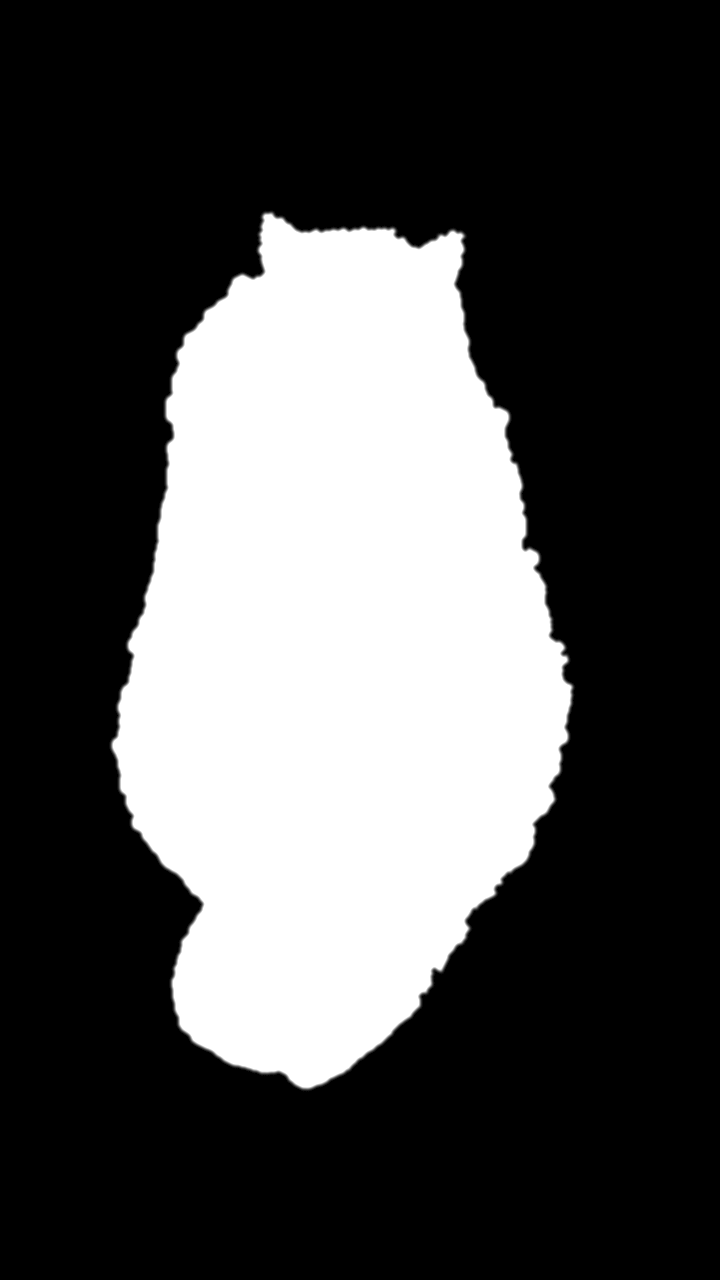
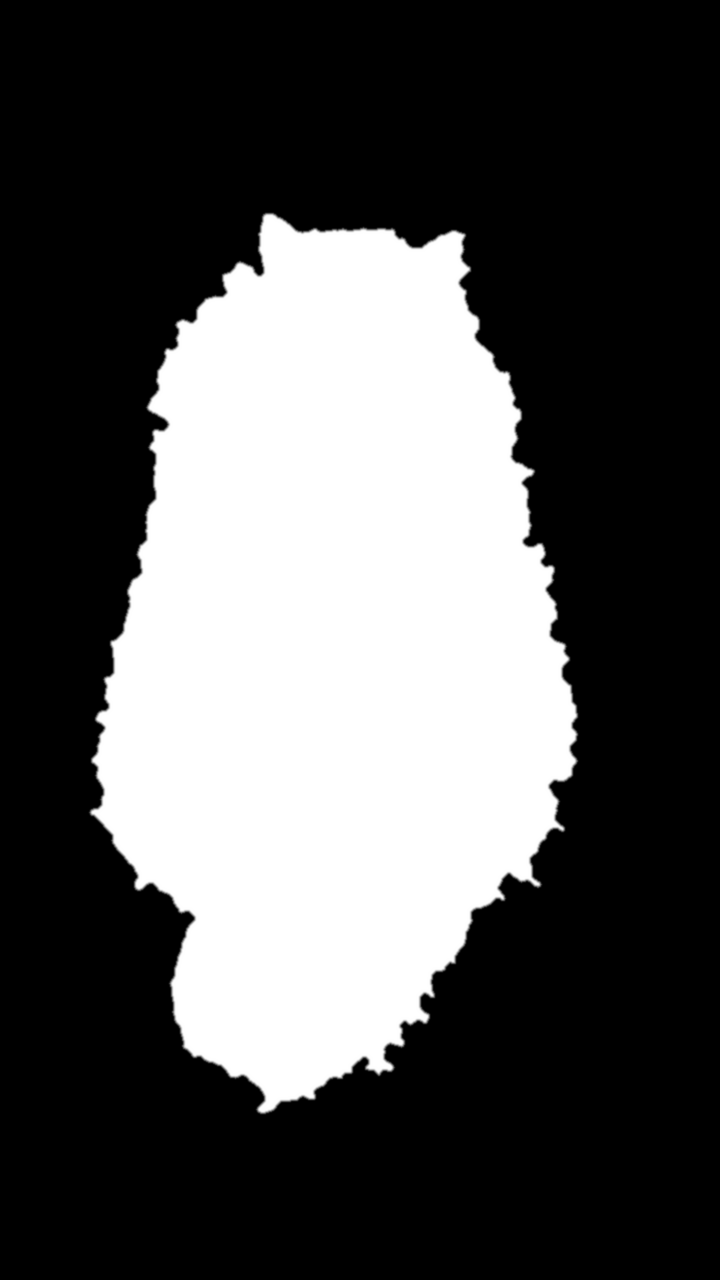
Cut the pale cushion fringe out of every coat matte
The calico outline sat on the plate's own lighter fabric and the renderer then hardened that edge. Masks are smoothed, eroded, and feathered, the rim is relit to the shared cushion, and the shader uses that feather instead of a second hard step.

diff --git a/tools/make_plate_masks.py b/tools/make_plate_masks.py
@@ -6,11 +6,10 @@ overhead pose) and run:
 
     python3 tools/make_plate_masks.py
 
-The script writes mask-<name>.png, a decontaminated plate-<name>.jpg, and a
-circular swatch-<name>.png. Calico is lit differently from the empty cushion,
-so it is segmented with a low-frequency lighting correction. Every matte is
-then eroded, feathered, and unmixed so the photo's own cushion cannot show
-as a pale cutout against cushion.jpg.
+The script writes mask-<name>.png, a rim-lit plate-<name>.jpg, and a circular
+swatch-<name>.png. The matte is a smoothed, eroded silhouette with a short
+feather. Edge pixels are relit to the shared cushion so a coat's own brighter
+fabric cannot show as a pale jagged outline.
 """
 
 import argparse
@@ -58,8 +57,8 @@ def segment_diff(cat: np.ndarray, empty: np.ndarray, core_t: float, fringe_t: fl
     distance = cv2.distanceTransform((1 - core).astype(np.uint8), cv2.DIST_L2, 3)
     fringe = ((distance > 0) & (distance <= fringe_px) & (diff > fringe_t)).astype(np.uint8)
     mask = largest(np.clip(core + fringe, 0, 1).astype(np.uint8))
-    mask = fill_small_holes(mask, 1200)
-    mask = cv2.erode(mask, small, iterations=1)
+    # Pale bellies fail the threshold but are enclosed by fur. The cushion itself touches the frame, so it is not filled.
+    mask = fill_small_holes(mask, 10**9)
     return largest(mask)
 
 
@@ -71,40 +70,60 @@ def lighting_diff(cat: np.ndarray, empty: np.ndarray, outside: np.ndarray) -> np
     weight = cv2.resize(outside.astype(np.float32), small, interpolation=cv2.INTER_AREA)
     gain = np.ones_like(cat_f)
     for channel in range(3):
-        num = cv2.GaussianBlur(cv2.resize(cat_f[:, :, channel] * outside, small, interpolation=cv2.INTER_AREA), (0, 0), 10)
-        den = cv2.GaussianBlur(cv2.resize(empty_f[:, :, channel] * outside, small, interpolation=cv2.INTER_AREA), (0, 0), 10)
-        blurred = cv2.GaussianBlur(weight, (0, 0), 10) + 1e-3
-        fitted = np.clip((num / blurred) / (den / blurred + 1e-3), 0.45, 2.4)
+        num = cv2.GaussianBlur(cv2.resize(cat_f[:, :, channel] * outside, small, interpolation=cv2.INTER_AREA), (0, 0), 8)
+        den = cv2.GaussianBlur(cv2.resize(empty_f[:, :, channel] * outside, small, interpolation=cv2.INTER_AREA), (0, 0), 8)
+        blurred = cv2.GaussianBlur(weight, (0, 0), 8) + 1e-3
+        fitted = np.clip((num / blurred) / (den / blurred + 1e-3), 0.5, 2.2)
         gain[:, :, channel] = cv2.resize(fitted, (width, height), interpolation=cv2.INTER_LINEAR)
     corrected = np.clip(empty_f * gain, 0, 255)
     return np.abs(cat_f - corrected).max(axis=2)
 
 
-def tighten_and_clean(plate: np.ndarray, cushion: np.ndarray, mask: np.ndarray) -> tuple[np.ndarray, np.ndarray]:
-    """Erode, feather, and unmix the plate's own cushion out of the fur edge.
+def segment_calico(cat: np.ndarray, empty: np.ndarray, black_mask: np.ndarray) -> np.ndarray:
+    """Calico is lit brighter than cushion.jpg. Fit that light, then stay inside the shared pose."""
+    outside = cv2.dilate(black_mask, cv2.getStructuringElement(cv2.MORPH_ELLIPSE, (31, 31))) == 0
+    diff = cv2.GaussianBlur(lighting_diff(cat, empty, outside.astype(np.float32)), (0, 0), 0.8)
+    raw = (diff > 40).astype(np.uint8)
+    small = cv2.getStructuringElement(cv2.MORPH_ELLIPSE, (3, 3))
+    raw = cv2.morphologyEx(raw, cv2.MORPH_OPEN, small, iterations=1)
+    raw = cv2.morphologyEx(raw, cv2.MORPH_CLOSE, cv2.getStructuringElement(cv2.MORPH_ELLIPSE, (5, 5)), iterations=2)
+    raw = largest(fill_small_holes(raw, 10**9))
+    # One pixel of slack around the black pose. A wide dilation is what left the pale cushion ring.
+    allowed = cv2.dilate(black_mask, cv2.getStructuringElement(cv2.MORPH_ELLIPSE, (5, 5)), iterations=1)
+    return largest(cv2.bitwise_and(raw, allowed))
 
-    A hard pale silhouette is the photo's brighter cushion left inside the matte.
-    The rim is solved back to fur colour against that local background, then
-    stored over the shared cushion so a soft edge cannot reveal a second fabric.
-    """
-    binary = (mask > 0).astype(np.uint8)
+
+def refine(binary: np.ndarray, erode_px: int = 3, feather: float = 2.6) -> tuple[np.ndarray, np.ndarray]:
+    """Round the contour, drop the cushion fringe, and feather inside the fur."""
+    soft = cv2.GaussianBlur(binary.astype(np.float32), (0, 0), 2.2)
+    smooth = largest((soft > 0.55).astype(np.uint8))
+    smooth = fill_small_holes(smooth, 2000)
     kernel = cv2.getStructuringElement(cv2.MORPH_ELLIPSE, (3, 3))
-    core = largest(cv2.erode(binary, kernel, iterations=2))
-    if int(core.sum()) < 1000:
-        core = binary
-    soft = cv2.GaussianBlur(core.astype(np.float32), (0, 0), 1.6)
-    outside = cv2.distanceTransform((1 - core).astype(np.uint8), cv2.DIST_L2, 3)
-    soft = np.where(outside > 3.0, 0.0, soft)
-    soft = np.clip(soft * 1.25, 0.0, 1.0)
-    background = cv2.inpaint(plate, (core * 255).astype(np.uint8), 8, cv2.INPAINT_NS)
-    alpha = soft[..., None]
-    fur = (plate.astype(np.float32) - background.astype(np.float32) * (1.0 - alpha)) / np.maximum(alpha, 0.2)
-    fur = np.clip(fur, 0, 255)
-    depth = cv2.distanceTransform(core, cv2.DIST_L2, 3)
-    deep = np.clip((depth - 4.0) / 3.0, 0.0, 1.0)[..., None]
-    fur = fur * (1.0 - deep) + plate.astype(np.float32) * deep
-    cleaned = np.where(alpha > 0.02, fur, cushion.astype(np.float32))
-    return cleaned.astype(np.uint8), (soft * 255.0).astype(np.uint8)
+    tight = largest(cv2.erode(smooth, kernel, iterations=erode_px))
+    if int(tight.sum()) < 1000:
+        tight = smooth
+    distance = cv2.distanceTransform(tight, cv2.DIST_L2, 5)
+    alpha = np.clip(distance / feather, 0.0, 1.0)
+    # A sub-pixel blur removes the stair-step the distance field inherits from the grid.
+    alpha = cv2.GaussianBlur(alpha, (0, 0), 0.7)
+    alpha = np.where(cv2.distanceTransform((1 - tight).astype(np.uint8), cv2.DIST_L2, 3) > feather + 1.5, 0.0, alpha)
+    return tight, np.clip(alpha, 0.0, 1.0).astype(np.float32)
+
+
+def match_edge_light(plate: np.ndarray, cushion: np.ndarray, tight: np.ndarray, alpha: np.ndarray) -> np.ndarray:
+    """Relight the outer fur to the shared cushion, and replace the plate's own fabric outside the matte."""
+    distance = cv2.distanceTransform(tight, cv2.DIST_L2, 5)
+    background = cv2.inpaint(plate, (tight * 255).astype(np.uint8), 8, cv2.INPAINT_TELEA).astype(np.float32)
+    destination = cv2.GaussianBlur(cushion.astype(np.float32), (0, 0), 14)
+    source = cv2.GaussianBlur(background, (0, 0), 14) + 1.0
+    gain = np.clip(destination / source, 0.7, 1.15)
+    weight = np.clip((7.0 - distance) / 7.0, 0.0, 1.0) * (tight == 1)
+    fur = plate.astype(np.float32)
+    corrected = np.clip(fur * gain, 0, 255)
+    lit = fur * (1.0 - weight[..., None]) + corrected * weight[..., None]
+    # Anything the matte does not cover is the shared cushion, so a soft sample cannot reveal the plate fabric.
+    lit = np.where(alpha[..., None] > 0.01, lit, cushion.astype(np.float32))
+    return lit.astype(np.uint8)
 
 
 def swatch(plate: np.ndarray) -> np.ndarray:
@@ -131,36 +150,25 @@ def main() -> None:
     if not plates:
         raise SystemExit(f"no plate-*.jpg in {folder}")
 
-    black_path = folder / "plate-black.jpg"
-    black = cv2.imread(str(black_path)) if black_path.exists() else None
-    black_mask = segment_diff(black, empty, 46, 16, 6) if black is not None else None
-    kernel = cv2.getStructuringElement(cv2.MORPH_ELLIPSE, (5, 5))
-    allowed = cv2.dilate(black_mask, kernel, iterations=3) if black_mask is not None else None
-    core = cv2.erode(black_mask, kernel, iterations=1) if black_mask is not None else None
-    outside = cv2.dilate(black_mask, cv2.getStructuringElement(cv2.MORPH_ELLIPSE, (31, 31))) == 0 if black_mask is not None else None
+    black = cv2.imread(str(folder / "plate-black.jpg"))
+    black_mask = segment_diff(black, empty, 46, 16, 4) if black is not None else None
 
     for path in plates:
         name = path.stem.removeprefix("plate-")
         cat = cv2.imread(str(path))
-        if name == "calico" and outside is not None:
-            diff = cv2.GaussianBlur(lighting_diff(cat, empty, outside), (0, 0), 0.8)
-            raw = (diff > 32).astype(np.uint8)
-            small = cv2.getStructuringElement(cv2.MORPH_ELLIPSE, (3, 3))
-            raw = cv2.morphologyEx(raw, cv2.MORPH_OPEN, small, iterations=1)
-            raw = cv2.morphologyEx(raw, cv2.MORPH_CLOSE, cv2.getStructuringElement(cv2.MORPH_ELLIPSE, (5, 5)), iterations=2)
-            raw = fill_small_holes(largest(raw), 2000)
-            mask = largest(fill_small_holes(raw, 1500))
+        if name == "calico" and black_mask is not None:
+            binary = segment_calico(cat, empty, black_mask)
         elif name in LIGHT:
-            mask = segment_diff(cat, empty, 26, 13, 5)
+            binary = segment_diff(cat, empty, 26, 13, 5)
         else:
-            mask = segment_diff(cat, empty, 40, 16, 5)
-        if allowed is not None and core is not None:
-            mask = largest(cv2.bitwise_or(cv2.bitwise_and(mask, allowed), core))
-        cleaned, alpha = tighten_and_clean(cat, empty, mask)
-        cv2.imwrite(str(folder / f"mask-{name}.png"), alpha)
+            binary = segment_diff(cat, empty, 40, 16, 5)
+        # Light fur is already close to the cloth, so erode less or the body opens up.
+        tight, alpha = refine(binary, erode_px=2 if name in LIGHT else 3)
+        cleaned = match_edge_light(cat, empty, tight, alpha)
+        cv2.imwrite(str(folder / f"mask-{name}.png"), (alpha * 255.0).astype(np.uint8))
         cv2.imwrite(str(folder / f"plate-{name}.jpg"), cleaned, [int(cv2.IMWRITE_JPEG_QUALITY), 95])
         cv2.imwrite(str(folder / f"swatch-{name}.png"), swatch(cleaned))
-        print(f"{name:12} {(alpha > 16).mean():.3f}")
+        print(f"{name:12} {(alpha > 0.2).mean():.3f}")
 
 
 if __name__ == "__main__":

diff --git a/tools/contact_sheet.py b/tools/contact_sheet.py
@@ -1,0 +1,67 @@
+#!/usr/bin/env python3
+"""Composite every coat on the shared cushion and write one contact sheet.
+
+The matte is the mask asset itself (the same alpha the renderer uses).
+"""
+
+import argparse
+from pathlib import Path
+
+from PIL import Image, ImageDraw
+
+ROOT = Path(__file__).resolve().parents[1] / "PurrPat" / "Resources" / "Plates"
+ORDER = [
+    "black",
+    "ginger",
+    "white",
+    "calico",
+    "silvertabby",
+    "tuxedo",
+    "bluegrey",
+    "ragdoll",
+    "tortie",
+    "browntabby",
+    "siamese",
+]
+
+
+def composite(folder: Path, name: str, width: int) -> Image.Image:
+    plate = Image.open(folder / f"plate-{name}.jpg").convert("RGB")
+    mask = Image.open(folder / f"mask-{name}.png").convert("L")
+    cushion = Image.open(folder / "cushion.jpg").convert("RGB")
+    if mask.size != plate.size:
+        mask = mask.resize(plate.size, Image.Resampling.BILINEAR)
+    if cushion.size != plate.size:
+        cushion = cushion.resize(plate.size, Image.Resampling.BILINEAR)
+    image = Image.composite(plate, cushion, mask)
+    height = max(1, round(width * image.height / image.width))
+    image = image.resize((width, height), Image.Resampling.LANCZOS)
+    draw = ImageDraw.Draw(image)
+    draw.rectangle((0, 0, width, 28), fill=(245, 236, 220))
+    draw.text((8, 6), name, fill=(50, 36, 24))
+    return image
+
+
+def main() -> None:
+    parser = argparse.ArgumentParser()
+    parser.add_argument("output", type=Path)
+    parser.add_argument("--dir", type=Path, default=ROOT)
+    parser.add_argument("--width", type=int, default=280)
+    args = parser.parse_args()
+    tiles = [composite(args.dir, name, args.width) for name in ORDER]
+    columns = 4
+    rows = (len(tiles) + columns - 1) // columns
+    gap = 8
+    cell_w, cell_h = tiles[0].size
+    sheet = Image.new("RGB", (columns * cell_w + (columns + 1) * gap, rows * cell_h + (rows + 1) * gap), (232, 224, 210))
+    for index, tile in enumerate(tiles):
+        x = gap + (index % columns) * (cell_w + gap)
+        y = gap + (index // columns) * (cell_h + gap)
+        sheet.paste(tile, (x, y))
+    args.output.parent.mkdir(parents=True, exist_ok=True)
+    sheet.save(args.output)
+    print(f"wrote {args.output} {sheet.size[0]}x{sheet.size[1]}")
+
+
+if __name__ == "__main__":
+    main()

diff --git a/PurrPat/Render/PlateRaster.c b/PurrPat/Render/PlateRaster.c
@@ -210,7 +210,9 @@ void plate_raster(
                     fur_g += 0.96f * press * press * 0.14f;
                     fur_b += 0.88f * press * press * 0.14f;
                 }
-                alpha = smoothf2(mask_v, 0.04f, 0.72f);
+                /* The mask asset is already eroded and feathered. A second smoothstep
+                   hardens that feather into a jagged pale step. */
+                alpha = clampf(mask_v, 0.0f, 1.0f);
                 occ = sample_r(mask, mask_w, mask_h, u + 0.014f, v);
                 occ += sample_r(mask, mask_w, mask_h, u - 0.014f, v);
                 occ += sample_r(mask, mask_w, mask_h, u, v + 0.014f);
